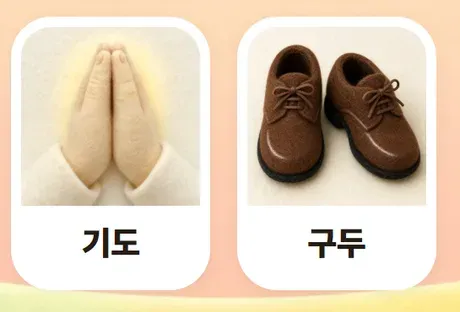
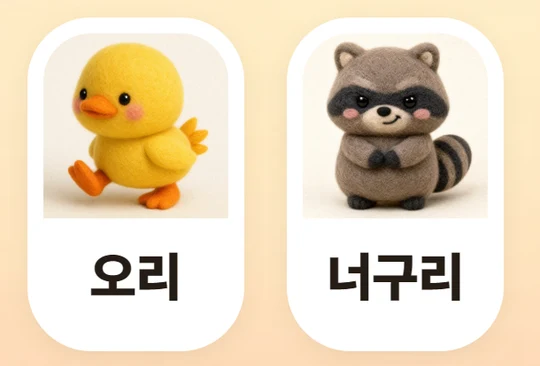
fix(intro): make the two halves of the hero bridge the same lesson
The panel claims "learn the letter, then the word" while showing ㄷ+ㅏ above and
구두 below. 다 is not in 구두 - the picture arguing that the two halves connect was
itself disconnected.

ㄷ cannot be fixed in place. Its words are 도마, 두유 and 구두, and every one of
them uses a vertical vowel, which stands underneath the consonant rather than
beside it; the shot goes from 460x270 to portrait and the 34%-wide column grows
with it. ㄹ works: 리 is ㄹ+ㅣ, a horizontal vowel, and the unit's words are 오리,
너구리, 다리 and 노루 - three of the four contain it.

Both shots are scripted now rather than hand-made, so the next mismatch is a
re-run. Two things they encode: shoot at a short viewport, because the activity
is 100dvh and at 640 the syllable strip and the letter tiles sit at opposite ends
with 500px of nothing between them; and pick a horizontal vowel, for the reason
above.

diff --git a/packages/client/src/pages/IntroPage.tsx b/packages/client/src/pages/IntroPage.tsx
@@ -333,7 +333,7 @@ function HeroBridge() {
         {/* 왼쪽 — 파닉스에서 배우는 낱말 */}
         {/* 왼쪽 — 파닉스. 🔴 **글자가 먼저, 낱말이 그다음**(2026-08-12 사용자: "왼쪽에 단어만
             있으니까 파닉스 느낌이 안 나네"). 낱말 카드만 두면 그림 낱말책으로 보인다 — 파닉스는
-            **글자와 소리**라, 위에 글자가 음절이 되는 화면(ㄷ+ㅏ, 다댜더뎌…)을 세우고 그 아래
+            **글자와 소리**라, 위에 글자가 음절이 되는 화면(ㄹ+ㅣ, 라랴러려…)을 세우고 그 아래
             그 글자로 된 낱말을 둔다. 두 장 다 앱 화면을 그대로 찍은 것이다. */}
         <div className="flex w-[34%] shrink-0 flex-col gap-1.5 sm:gap-2">
           <span className="text-[11px] font-extrabold text-coral-700 sm:text-sm xl:text-base">
@@ -342,11 +342,11 @@ function HeroBridge() {
           <div className="overflow-hidden rounded-2xl border border-ink-100 bg-cream-50">
             <img
               src="/landing/hangul/bridge-letter.webp"
-              alt="한글 파닉스 음절 만들기 화면 — ㄷ 과 ㅏ 가 합쳐져 다 가 된다"
-              width={460}
-              height={270}
+              alt="한글 파닉스 음절 만들기 화면 — ㄹ 과 ㅣ 가 합쳐져 리 가 된다"
+              width={540}
+              height={458}
               fetchPriority="high"
-              className="aspect-[460/270] w-full object-cover"
+              className="aspect-[540/458] w-full object-cover"
             />
           </div>
           <span className="text-[11px] font-extrabold text-coral-700 sm:text-sm xl:text-base">
@@ -355,17 +355,17 @@ function HeroBridge() {
           <div className="relative overflow-hidden rounded-2xl border border-ink-100 bg-cream-50">
             <img
               src="/landing/hangul/bridge-word.webp"
-              alt="한글 파닉스 ㄷ 단원 낱말 연습 화면 — 기도·구두"
-              width={460}
-              height={312}
+              alt="한글 파닉스 ㄹ 단원 낱말 연습 화면 — 오리·너구리"
+              width={540}
+              height={366}
               fetchPriority="high"
-              className="aspect-[460/312] w-full object-cover"
+              className="aspect-[540/366] w-full object-cover"
             />
             {/* 🔴 위치는 **퍼센트** — 이미지가 105px(모바일)~282px(데스크탑)로 늘어난다. */}
             <span
               aria-hidden
               className="pointer-events-none absolute rounded-xl ring-[3px] ring-coral-500 sm:rounded-2xl sm:ring-4"
-              style={{ left: '50%', top: '4%', width: '44%', height: '90%' }}
+              style={{ left: '54.8%', top: '4.8%', width: '38.5%', height: '87%' }}
             />
           </div>
         </div>
